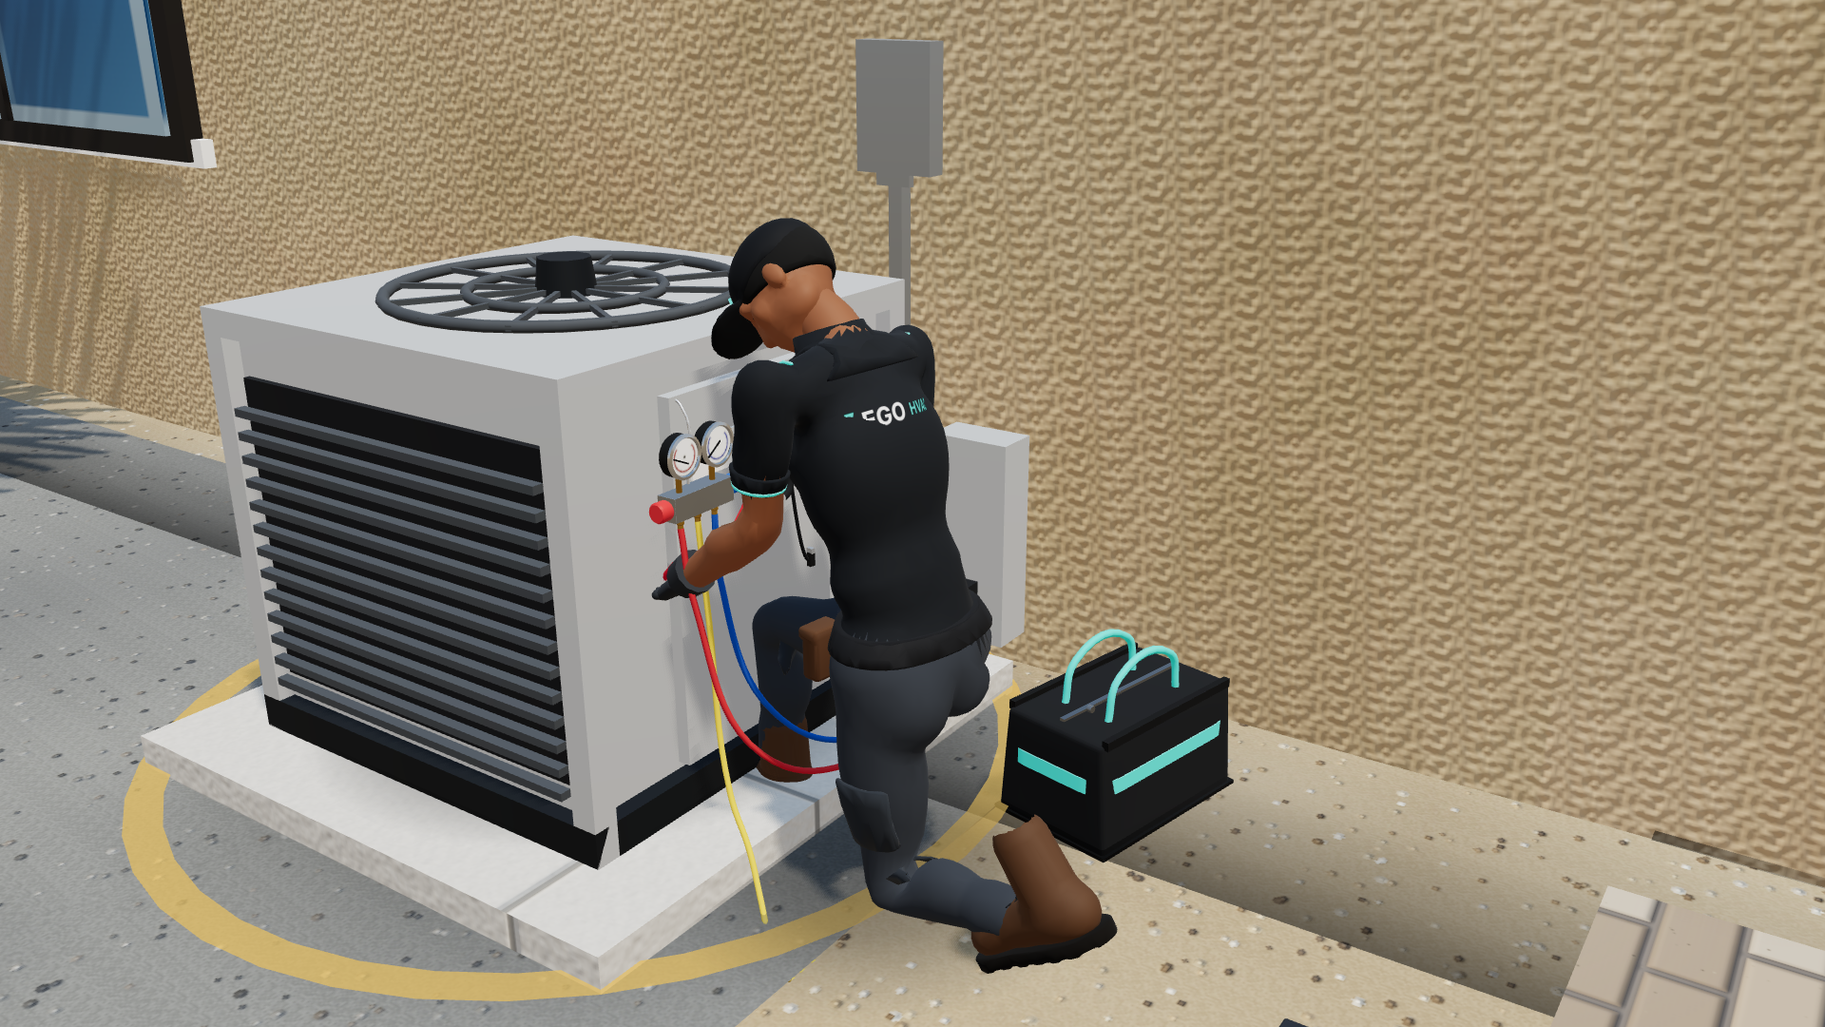
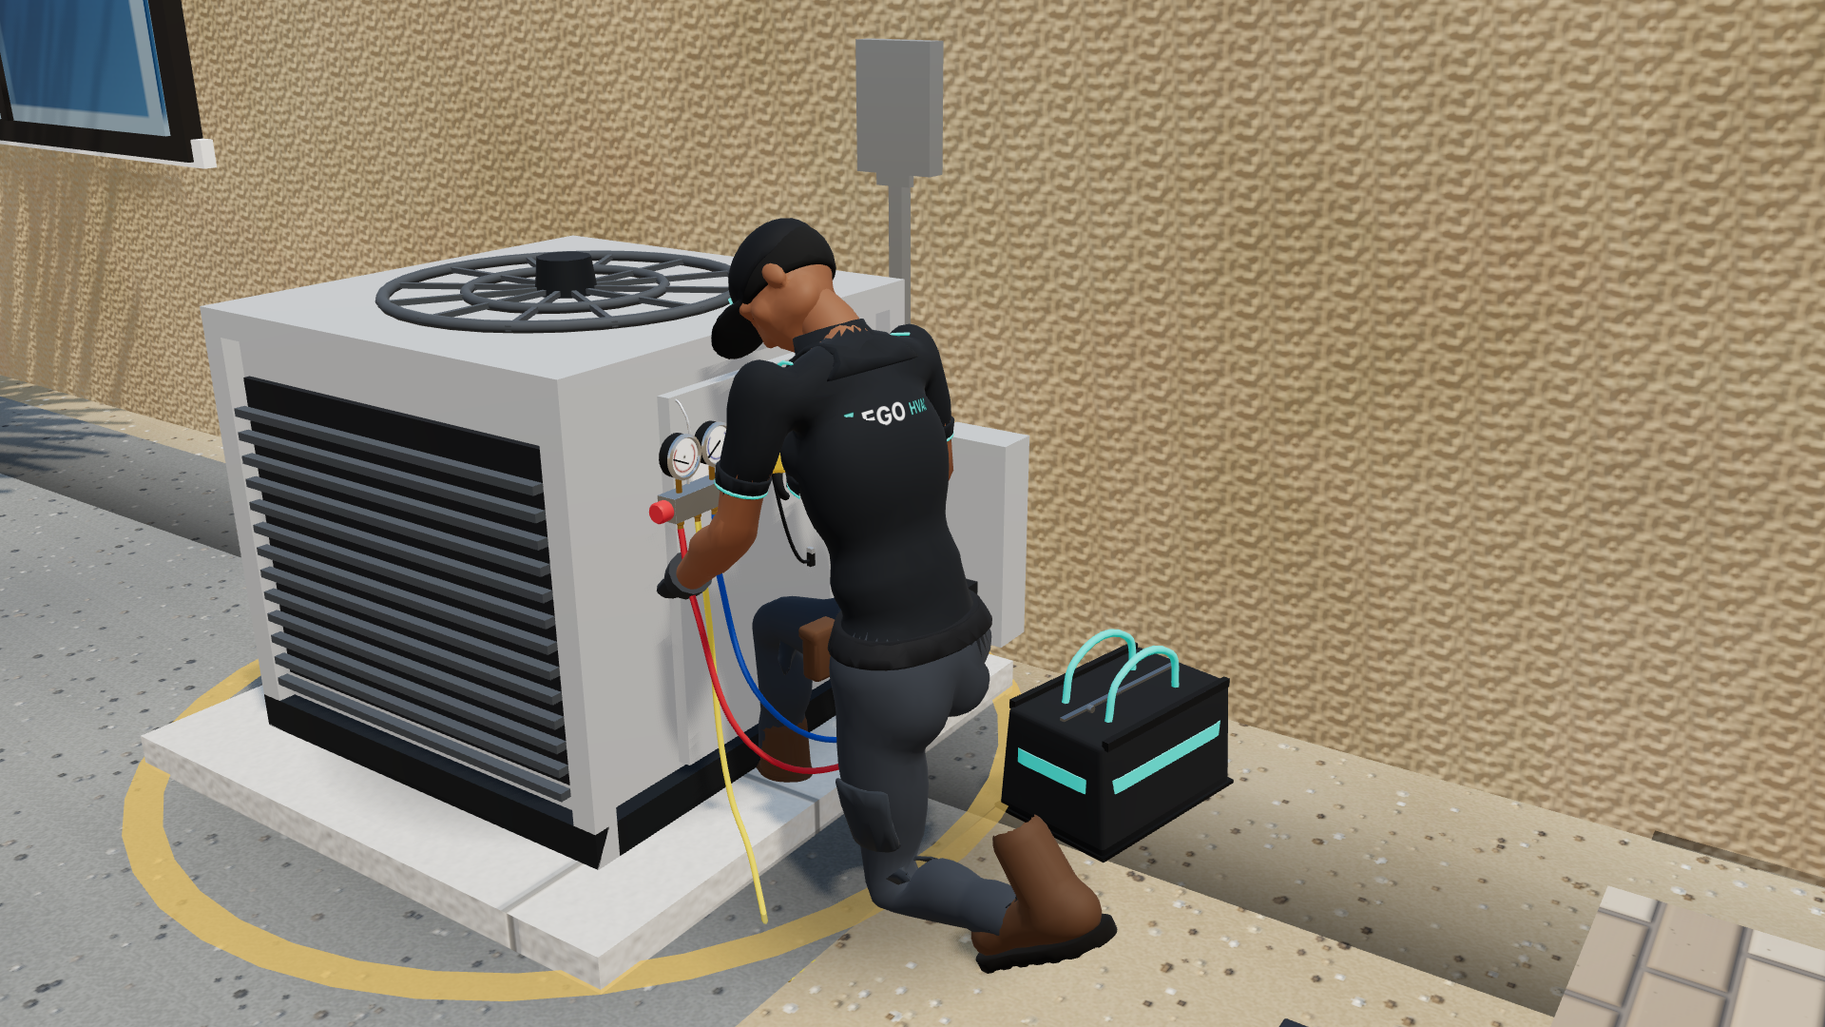
Arm IK elbow pole fix, slerped joint blending, load spec, regression runs
The repair clip's free hand braced on a premium home's 1.08 m cabinet put the elbow
over the head (old rig too): the IK pole pointed only backward and its projection
flipped upward for targets above and in front of the shoulder. The pole now drops the
elbow down, a little out and back; a sweep test checks hands land within 2 cm and
elbows never rise over shoulder and hand. Joint blending is slerped (Euler blending
can also swing the long way). Ladder framing lower and closer.

House curb pulls keep their original park curve (the long-pull scaling for rooftop
service poses had slowed them and broke service-camera.spec's follow check; fixed and
rerun on five sizes).

e2e/technician-load.spec.ts: ten technicians, ten ladder vans, ground and rooftop
calls at 2x (10 on site, mean 16.8 ms, p95 16.8 ms), then three automated game days
(18 completed, 8 rooftop, none stuck). Matrix logs: 21/21 existing cases, new specs.

Changed region(s): [[0.3438, 0.3972, 0.4688, 0.6417], [0.5, 0.3361, 0.5312, 0.4278], [0.3438, 0.6417, 0.4062, 0.7028]]

diff --git a/e2e/technician-load.spec.ts b/e2e/technician-load.spec.ts
@@ -1,0 +1,119 @@
+import { test, expect } from '@playwright/test';
+import { mkdirSync, writeFileSync } from 'node:fs';
+
+/**
+ * Load scenario (handoff 03 "Load/performance"): ten technicians and ten ladder-rack vans, all dispatched at once to
+ * ground calls, Mesquite Plaza's rooftop unit and a modern home's rooftop unit, played at 2x. Records frame times
+ * (requestAnimationFrame intervals) and renderer draw calls/triangles while the calls are under way, then advances
+ * three game days with the Operations Center on (calls dispatched as they come) and checks nobody is stuck, every
+ * van is home or working, and the books reconcile. Writes test-results/technician-load/<label>.json.
+ */
+
+// eslint-disable-next-line @typescript-eslint/no-explicit-any
+type S = any;
+const LABEL = process.env.SHOWCASE_LABEL ?? 'load';
+
+test('ten technicians with rooftop and ground calls', async ({ page }) => {
+  test.setTimeout(900_000);
+  const errors: string[] = [];
+  page.on('pageerror', (e) => errors.push(e.message));
+  await page.goto('/');
+  await page.getByTestId('seed-input').fill('42');
+  await page.getByTestId('new-game').click();
+  await page.waitForFunction(() => window.__ego?.app.getState().sceneReady, null, { timeout: 120_000 });
+  await page.evaluate(() => window.__ego!.dispatch({ type: 'set-speed', speed: 0 }));
+  const dispatched = await page.evaluate(() => {
+    const e = window.__ego!;
+    const s = e.getState() as S;
+    e.advanceMinutes(540 - s.clock.minute);
+    const owner = s.employees['emp-owner'];
+    const van = s.vehicles['veh-1'];
+    for (let i = 1; i <= 9; i++) {
+      s.employees[`emp-l${i}`] = { ...structuredClone(owner), id: `emp-l${i}`, name: `Tech ${i}`, isOwner: false, look: 300 + i * 613, status: 'idle', jobId: undefined, vehicleId: undefined, position: { x: 40 + i, z: 36 } };
+      s.vehicles[`veh-l${i}`] = { ...structuredClone(van), id: `veh-l${i}`, nickname: `Unit ${i + 1}`, stall: i, status: 'parked', jobId: undefined, driverId: undefined, passengerIds: [], route: undefined, upgrades: ['ladder-rack'] };
+    }
+    s.company.hqUpgrades.push('operations-center');
+    e.dispatch({ type: 'set-automation', diagnostics: true, closing: true });
+    for (const j of Object.values(s.jobs) as S[]) if (j.status === 'lead') e.dispatch({ type: 'decline-lead', jobId: j.id });
+    const lots = ['cm-plaza', 'a-n-4', 'b-n-1', 'n-o-1', 'a-s-2', 'b-s-3', 'c-n-1', 'c-s-2', 's-o-1', 'a-n-1'];
+    const techs = ['emp-owner', ...Array.from({ length: 9 }, (_, i) => `emp-l${i + 1}`)];
+    const vans = ['veh-1', ...Array.from({ length: 9 }, (_, i) => `veh-l${i + 1}`)];
+    let ok = 0;
+    lots.forEach((lot, i) => {
+      const id = e.spawnLead({ preferredLotId: lot, channel: 'direct' });
+      if (!id) return;
+      e.dispatch({ type: 'accept-lead', jobId: id });
+      if (e.dispatch({ type: 'dispatch', jobId: id, technicianId: techs[i], vehicleId: vans[i] }).ok) ok++;
+    });
+    e.advanceMinutes(0.01);
+    return ok;
+  });
+  expect(dispatched).toBe(10);
+  await page.evaluate(() => window.__ego!.dispatch({ type: 'set-speed', speed: 2 }));
+  // Let the vans arrive, then sample while the crews are on site.
+  await page.waitForFunction(() => Object.values((window.__ego!.getState() as S).vehicles).filter((v: S) => v.status === 'onsite').length >= 6, null, { timeout: 180_000 });
+  await page.evaluate(() => window.__ego!.app.getState().camera({ type: 'reset' } as S));
+  await page.waitForTimeout(3000);
+  const sample = await page.evaluate(
+    () =>
+      new Promise<{ mean: number; p95: number; worst: number; frames: number; calls: number; triangles: number; onsite: number; workers: number }>((resolve) => {
+        const times: number[] = [];
+        let last = performance.now();
+        const t0 = last;
+        let maxCalls = 0;
+        let maxTris = 0;
+        const tick = (now: number) => {
+          times.push(now - last);
+          last = now;
+          const r = window.__egoRender!;
+          maxCalls = Math.max(maxCalls, r.calls);
+          maxTris = Math.max(maxTris, r.triangles);
+          if (now - t0 < 8000) requestAnimationFrame(tick);
+          else {
+            const sorted = [...times].sort((a, b) => a - b);
+            const s = window.__ego!.getState() as S;
+            resolve({ mean: times.reduce((a, b) => a + b, 0) / times.length, p95: sorted[Math.floor(sorted.length * 0.95)], worst: sorted[sorted.length - 1], frames: times.length, calls: maxCalls, triangles: maxTris, onsite: Object.values(s.vehicles).filter((v: S) => v.status === 'onsite').length, workers: window.__egoRender!.workers });
+          }
+        };
+        requestAnimationFrame(tick);
+      }),
+  );
+  await page.screenshot({ path: `test-results/technician-load/${LABEL}-overview.png` });
+
+  // Three game days with automation on: calls dispatched as they come, decisions the owner would make answered.
+  const days = await page.evaluate(() => {
+    const e = window.__ego!;
+    const s = e.getState() as S;
+    const end = s.clock.day + 3;
+    let stuck = 0;
+    while ((e.getState() as S).clock.day < end) {
+      const st = e.getState() as S;
+      const idleTechs = Object.values(st.employees).filter((x: S) => x.role === 'technician' && x.status === 'idle' && !x.jobId) as S[];
+      const freeVans = Object.values(st.vehicles).filter((v: S) => v.status === 'parked' && !v.jobId) as S[];
+      for (const j of Object.values(st.jobs) as S[]) {
+        if (j.status === 'lead') e.dispatch({ type: 'accept-lead', jobId: j.id });
+        if (j.status === 'accepted' && j.kind !== 'replacement' && idleTechs.length && freeVans.length) e.dispatch({ type: 'dispatch', jobId: j.id, technicianId: idleTechs.pop().id, vehicleId: freeVans.pop().id });
+        if (j.attention && !j.attention.resolved) {
+          if (j.attention.kind === 'replacement-approval') e.dispatch({ type: 'submit-quote', jobId: j.id, quote: { recommendation: 'repair' } });
+          else if (j.attention.kind === 'uncertain-diagnosis') e.dispatch({ type: 'choose-diagnosis', jobId: j.id, faultId: j.diagnosisOptions[0] });
+          else e.dispatch({ type: 'ack-attention', jobId: j.id });
+        }
+        if ((j.status === 'awaiting-diagnosis' || j.status === 'quoted') && !(j.attention && !j.attention.resolved)) stuck++;
+      }
+      e.advanceMinutes(15);
+    }
+    const st = e.getState() as S;
+    const completed = Object.values(st.jobs).filter((j: S) => j.status === 'completed').length;
+    const roofDone = Object.values(st.jobs).filter((j: S) => j.status === 'completed' && (st.customers[j.customerId].lotId === 'cm-plaza' || st.customers[j.customerId].equipment.type === 'package-unit')).length;
+    const packingOverAfterHours = Object.values(st.vehicles).filter((v: S) => v.packUp).length;
+    return { completed, roofDone, stuck, packingOverAfterHours, cash: st.finance.cash };
+  });
+  mkdirSync('test-results/technician-load', { recursive: true });
+  const result = { label: LABEL, viewport: page.viewportSize(), sample, days };
+  writeFileSync(`test-results/technician-load/${LABEL}.json`, JSON.stringify(result, null, 2));
+  console.log(JSON.stringify(result));
+  expect(sample.onsite).toBeGreaterThanOrEqual(6);
+  expect(days.stuck).toBe(0);
+  expect(days.completed).toBeGreaterThan(10);
+  expect(errors, errors.join('\n')).toHaveLength(0);
+});

diff --git a/src/world/characters/Worker.tsx b/src/world/characters/Worker.tsx
@@ -273,9 +273,9 @@ export function armIK(side: 1 | -1, target: { x: number; y: number; z: number },
   const n = new THREE.Vector3(dx / len, dy / len, dz / len);
   const a1 = Math.acos(THREE.MathUtils.clamp((UPPER_ARM * UPPER_ARM + d * d - FOREARM * FOREARM) / (2 * UPPER_ARM * d), -1, 1));
   const flex = Math.PI - Math.acos(THREE.MathUtils.clamp((UPPER_ARM * UPPER_ARM + FOREARM * FOREARM - d * d) / (2 * UPPER_ARM * FOREARM), -1, 1));
-  // The elbow sits behind and below the shoulder-to-hand line: the upper arm leans from the target
-  // direction toward the back (or down, when reaching straight back).
-  const pole = new THREE.Vector3(0, -0.35, -1);
+  // The elbow drops below the shoulder-to-hand line, a little out to its own side and back. (A pole pointing only
+  // back flipped to "up" for targets above and in front of the shoulder, raising the elbow over the head.)
+  const pole = new THREE.Vector3(side * 0.45, -1, -0.3);
   const m = pole.clone().addScaledVector(n, -pole.dot(n));
   if (m.lengthSq() < 1e-6) m.set(0, -1, 0).addScaledVector(n, n.y);
   m.normalize();
@@ -343,7 +343,7 @@ export function Worker({ role, look, anim, scale = 1, pace = 1, work, motion }: 
   const hands = { relaxedL: useRef<THREE.Mesh>(null), relaxedR: useRef<THREE.Mesh>(null), gripL: useRef<THREE.Mesh>(null), gripR: useRef<THREE.Mesh>(null) };
   const anchors = { socket: useRef<THREE.Group>(null), probeEnd: useRef<THREE.Group>(null) };
   const leads = useRef<LeadsHandle>(null);
-  const blend = useRef<Pose>({});
+  const blend = useRef<Record<string, THREE.Quaternion>>({});
   const stride = useRef(0);
 
   const materials = useMemo(
@@ -551,7 +551,7 @@ export function Worker({ role, look, anim, scale = 1, pace = 1, work, motion }: 
           look(0, top, face + 0.45, lean, pelvisY);
         } else if (fetch > 0.5 && bag) {
           // Reach into the tool bag set down beside the hip: hand to the handles, the other hand on the thigh.
-          ik(-1, bag.x, 0.42, bag.z, lean, pelvisY, twist, roll);
+          ik(-1, bag.x * 0.88, 0.47, bag.z, lean, pelvisY, twist, roll);
           ik(1, 0.16, 0.5, 0.36, lean, pelvisY, twist, roll);
           look(bag.x, 0.3, bag.z, lean, pelvisY, twist);
         } else if (fetch > 0.5) {
@@ -562,7 +562,8 @@ export function Worker({ role, look, anim, scale = 1, pace = 1, work, motion }: 
         } else {
           // Wrench turns: small arcs at the valve/terminal; the forearm rolls with each pull.
           const pull = Math.sin(t * 3.2);
-          ik(1, 0.12 + pull * 0.03, 0.5 + pull * 0.035, face - 0.03, lean, pelvisY);
+          // The hand stops a little short of the panel; the wrench's head reaches it.
+          ik(1, 0.12 + pull * 0.03, 0.52 + pull * 0.035, face - 0.09, lean, pelvisY);
           ik(-1, -0.2, top + 0.02, face + 0.12, lean, pelvisY);
           const fr = pose.foreR!;
           pose.foreR = [fr[0], pull * 0.5, fr[2]];
@@ -701,17 +702,17 @@ export function Worker({ role, look, anim, scale = 1, pace = 1, work, motion }: 
         pelvisY = PELVIS_Y - Math.abs(shift) * 0.01;
       }
     }
-    // Blend every joint toward its target so state changes never pop.
+    // Blend every joint toward its target so state changes never pop. Rotations are slerped: blending Euler angles
+    // component by component swings an arm the long way round (over the head) when an IK solution wraps past ±π.
     const k = Math.min(1, dt * 7);
     const cur = blend.current;
     for (const name of Object.keys(refs) as (keyof typeof refs)[]) {
       const target = pose[name] ?? [0, 0, 0];
-      const c = cur[name] ?? [target[0], target[1], target[2]];
-      c[0] += (target[0] - c[0]) * k;
-      c[1] += (target[1] - c[1]) * k;
-      c[2] += (target[2] - c[2]) * k;
+      const goal = BLEND_Q.setFromEuler(BLEND_E.set(target[0], target[1], target[2]));
+      const c = cur[name] ?? goal.clone();
+      c.slerp(goal, k);
       cur[name] = c;
-      r[name]!.rotation.set(c[0], c[1], c[2]);
+      r[name]!.quaternion.copy(c);
     }
     const hs = heightState.current;
     hs.pelvis += (pelvisY - hs.pelvis) * k;
@@ -864,6 +865,8 @@ export function Worker({ role, look, anim, scale = 1, pace = 1, work, motion }: 
   );
 }
 
+const BLEND_Q = new THREE.Quaternion();
+const BLEND_E = new THREE.Euler();
 const LOD_POS = new THREE.Vector3();
 const LOD_SPHERE = new THREE.Sphere();
 const LOD_FRUSTUM = new THREE.Frustum();

diff --git a/src/tests/worldImmersion.test.ts b/src/tests/worldImmersion.test.ts
@@ -131,3 +131,48 @@ describe('tool bag placement', () => {
     expect(Math.abs(BAG_LOCAL.x) - 0.23).toBeGreaterThan(0.18 + 0.1);
   });
 });
+
+describe('technician elbows', () => {
+  /** Shoulder, elbow and hand world positions for an arm IK solution (same hierarchy as the rig). */
+  function arm(side: 1 | -1, pitch: number, pY: number, sol: { arm: [number, number, number]; fore: number }) {
+    const torso = new THREE.Object3D();
+    torso.position.set(0, pY + 0.06, 0);
+    torso.rotation.set(pitch, 0, 0);
+    const sh = new THREE.Object3D();
+    sh.position.set(side * SHOULDER_X, 0.5, 0);
+    sh.rotation.set(...sol.arm);
+    const el = new THREE.Object3D();
+    el.position.set(0, -0.3, 0);
+    el.rotation.set(sol.fore, 0, 0);
+    const hand = new THREE.Object3D();
+    hand.position.set(0, -0.31, 0);
+    torso.add(sh);
+    sh.add(el);
+    el.add(hand);
+    torso.updateMatrixWorld(true);
+    return { sh: sh.getWorldPosition(new THREE.Vector3()), el: el.getWorldPosition(new THREE.Vector3()), hand: hand.getWorldPosition(new THREE.Vector3()) };
+  }
+  it('never raises the elbow above both the shoulder and the hand (the premium cabinet brace included)', () => {
+    for (const [pitch, pY] of [[0.42, KNEEL.pelvisY], [0.54, 0.93], [0.1, 0.95]] as const) {
+      for (const side of [1, -1] as const) {
+        for (let x = -0.3; x <= 0.31; x += 0.15) {
+          for (let y = 0.4; y <= 1.3; y += 0.15) {
+            for (let z = 0.3; z <= 0.75; z += 0.15) {
+              const sol = armIK(side, { x: side * Math.abs(x), y: y + (pY - KNEEL.pelvisY) * 0.6, z }, pitch, pY);
+              const p = arm(side, pitch, pY, sol);
+              const target = new THREE.Vector3(side * Math.abs(x), y + (pY - KNEEL.pelvisY) * 0.6, z);
+              if (p.sh.distanceTo(target) > 0.58) continue; // out of reach: only the direction matters there
+              expect(p.hand.distanceTo(target), JSON.stringify({ side, x, y, z, pitch })).toBeLessThan(0.02);
+              // (A hand raised close in front of the chest lets the elbow rise a few centimetres as it swings out: allowed.)
+              expect(p.el.y, JSON.stringify({ side, x, y, z, pitch })).toBeLessThanOrEqual(Math.max(p.sh.y, p.hand.y) + 0.06);
+            }
+          }
+        }
+      }
+    }
+    // The free hand braced on a premium home's 1.08 m cabinet top (the old pole put this elbow over his head).
+    const brace = armIK(-1, { x: -0.2, y: 1.14, z: 0.61 }, 0.42, KNEEL.pelvisY);
+    const b = arm(-1, 0.42, KNEEL.pelvisY, brace);
+    expect(b.el.y).toBeLessThan(b.sh.y);
+  });
+});

diff --git a/src/world/scene/LiveEntities.tsx b/src/world/scene/LiveEntities.tsx
@@ -84,12 +84,15 @@ function VehicleView({ id }: { id: string }) {
         const park = { x: Math.sin(site.pose.heading), z: Math.cos(site.pose.heading) };
         const uTurn = fwd.x * park.x + fwd.z * park.z < 0;
         const a = first ? { x: site.pose.x, z: site.pose.z } : { x: g.position.x, z: g.position.z };
-        // Longer pulls (into a commercial lot's side drive) take a wider curve and proportionally longer.
+        // Rooftop service poses (a commercial lot's side drive) can be far off the street: a wider curve and
+        // proportionally longer. House curb pulls keep their short, fixed curve.
+        const siteJobNow = v.jobId ? state.jobs[v.jobId] : undefined;
+        const long = !!siteJobNow && isRoofJob(state, siteJobNow);
         const dist = Math.hypot(site.pose.x - a.x, site.pose.z - a.z);
-        const reach = Math.max(uTurn ? 6 : 3, Math.min(14, dist * 0.35));
+        const reach = long ? Math.max(uTurn ? 6 : 3, Math.min(14, dist * 0.35)) : uTurn ? 6 : 3;
         pk.curve = [a, { x: a.x + fwd.x * reach, z: a.z + fwd.z * reach }, { x: site.pose.x - park.x * reach, z: site.pose.z - park.z * reach }, { x: site.pose.x, z: site.pose.z }];
         pk.t = first ? 1 : 0;
-        pk.seconds = Math.max(PARK_SECONDS * (uTurn ? 2 : 1), dist / 6);
+        pk.seconds = long ? Math.max(PARK_SECONDS * (uTurn ? 2 : 1), dist / 6) : PARK_SECONDS * (uTurn ? 2 : 1);
         pk.framed = first;
       }
       pk.t = Math.min(1, pk.t + (dt * visualPace(state.speed)) / pk.seconds);

diff --git a/src/world/scene/rooftopCamera.ts b/src/world/scene/rooftopCamera.ts
@@ -36,7 +36,7 @@ type P = { x: number; y: number; z: number };
 const P = (x: number, y: number, z: number): P => ({ x, y, z });
 
 /** Taller subjects (a whole ladder) may be framed from further off; property views of a commercial roof are wide. */
-const LADDER_TUNING: RuleTuning = { maxDistance: 15, minDistance: 4.5, fill: 0.62, elevations: [0.2, 0.3, 0.4, 0.5], band: [0.25, 0.5] };
+const LADDER_TUNING: RuleTuning = { maxDistance: 12, minDistance: 4, fill: 0.66, elevations: [0.12, 0.18, 0.26, 0.34], band: [0.22, 0.48] };
 const GROUND_TUNING: RuleTuning = { maxDistance: 13, minDistance: 4, elevations: [0.22, 0.3, 0.38, 0.48], band: [0.25, 0.48] };
 const PROPERTY_TUNING: RuleTuning = { maxDistance: 80, minDistance: 16 };
 

diff --git a/docs/technicians-rooftop-service/README.md b/docs/technicians-rooftop-service/README.md
@@ -1,0 +1,60 @@
+# Realistic technicians + rooftop HVAC operations
+
+Branch `feature/v3-technicians-rooftop-service` (local). Progress log and gate status: `MISSION_PROGRESS.md`.
+Owner handoff: `hvac_rooftop_handoff/`.
+
+## What changed
+
+**Technicians.** The capsule-and-ball rig body is replaced by a Blender-authored continuous skinned body
+(`tools/blender/technician.py` → `public/models/characters/technician.glb`, 732 KB). The body is a signed-distance anatomy
+(ribcage, pectorals, deltoids, biceps, quadriceps, calves… in smooth unions), polygonised with surface nets, so joints
+flow instead of meeting as balls; skin weights come from the same anatomy. Three builds and a distant LOD, four face
+shapes with lids and brows, five hair styles, three beards; a polo with collar, placket, teal yoke piping and sleeve
+trim, EGO HVAC prints on the back and chest, belt, leather pouches, cargo pockets, knee panels, cap, laced work boots.
+The existing clips and arm IK drive it unchanged (bones carry the rig's joint names); leg IK and ladder clips are new;
+joint blending is now slerped (the old per-axis Euler blend could swing an arm over the head). Appearance is a pure
+function of the employee's look seed; skills are untouched. A close character is ~11.5k triangles in ~10 draw calls.
+
+**Rooftop equipment.** `tools/blender/rooftop_kit.py`: a manufacturer-neutral commercial RTU on its curb (service doors,
+latches, data plate, coil guards, twin fans, economizer hood, disconnect, gas line) with a distant LOD, a residential
+packaged unit on rails, and a 24 ft extension ladder (base and fly). New commercial customers east of Mesquite St:
+Mesquite Plaza (retail strip, 4.0 m deck behind a 4.6 m parapet, three RTUs) and Desert Ridge Offices (two storeys, roof
+out of ladder reach). Modern flat-roofed homes are built round a rooftop package unit (no ground condenser); every
+other home keeps its split system on the ground.
+
+**Roof access.** `src/game/world/rooftops.ts` holds explicit, certified data: roof deck and parapet, ladder access
+points (foot, rest point, landing), unit spots (service side, work spot), the van's service pose, per-site access and
+pack-up minutes. `roofAccess()` requires an access point a 24 ft extension ladder reaches at 4:1 (3 ft past the edge)
+and a vehicle with the ladder rack (the starter van has one; the upgrade's effect text promised exactly this).
+Unreachable roofs cannot be accepted (the lead expires normally, with the reason on the card); ladderless vehicles
+cannot be dispatched to them.
+
+**The service call.** The job engine stays authoritative. A rooftop call adds a bounded access phase (ladder off the
+rack, carried, footed, raised, climbed, to the unit) before the diagnostic, and after the job closes, with its money
+already booked, a pack-up phase on the vehicle (tools, climb down, ladder stowed) before it leaves. Rooftop units are
+repaired, never replaced up a ladder (replacement quote refused: crane lift not offered). Save schema 5 adds the
+commercial customers to older campaigns.
+
+**Choreography.** `src/world/scene/rooftopChoreo.ts` is a pure function of time with exactly one ladder pose per frame
+(on the rack in the van's frame, or one world pose): exit, walk to the rear, pull the ladder off the rack, shoulder-carry
+it, foot it and walk it up, extend the fly, step on and climb rung by rung (hand and foot IK on the rungs), over the
+parapet, to the RTU; then collect, back onto the ladder, climb down, retract, lower, lay it down, shoulder it top
+first, carry it back, push it onto the rack, get in. It plays at its own pace but never behind the simulated phase, so
+5× stays coherent and a loaded save resumes at the matching point (verified mid-climb in the browser).
+
+**Camera.** `src/world/scene/rooftopCamera.ts`: Property, Watch Work and Detail for the ground, ladder and roof stages,
+with the building's walls and parapets, every rooftop cabinet, the van, plants and poles as obstacles. The player's
+own camera input still ends or overrides the service camera as before.
+
+## Evidence (actual in-game captures)
+
+| | |
+| --- | --- |
+| Before / after technician | `before/`, `after/` |
+| Rooftop call, Mesquite Plaza (every stage) | `rooftop/01-to-rack.png` … `18-depart.png` |
+| Rooftop call, modern home | `rooftop-modern/` |
+| Sites | `rooftop/1-plaza.png` … `5-modern-roof.png` |
+| Service camera (desktop and 390×844) | `camera/` |
+| Save/load mid-climb and mid-descent | `persistence/` |
+| Performance | `perf/` |
+| Browser matrix | `matrix/browser-matrix.txt` |
